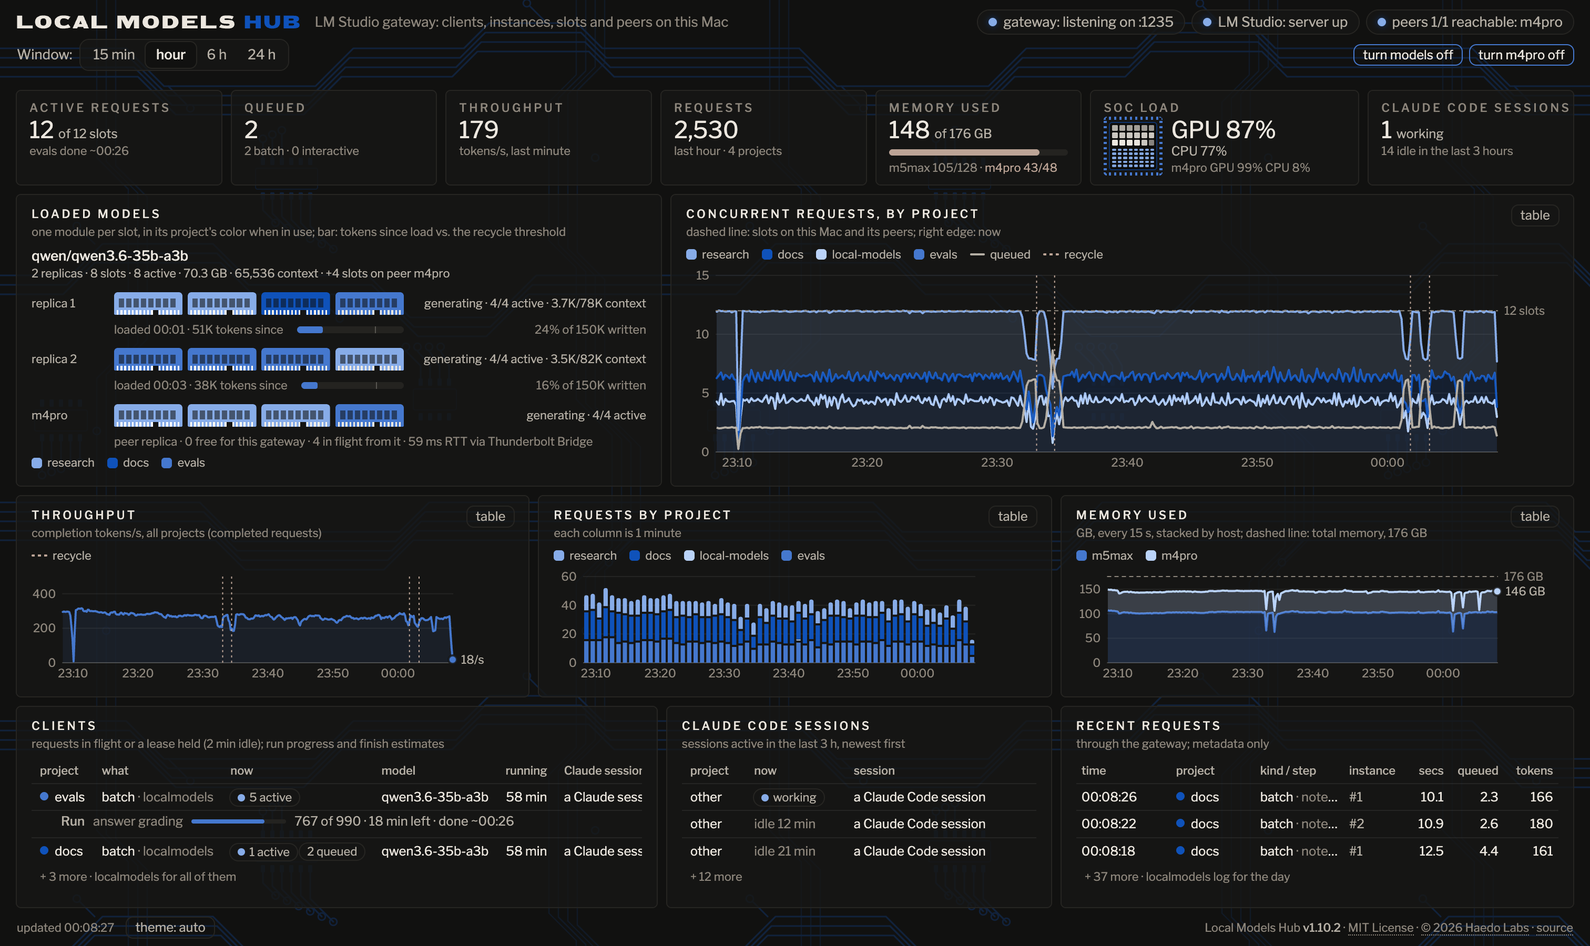
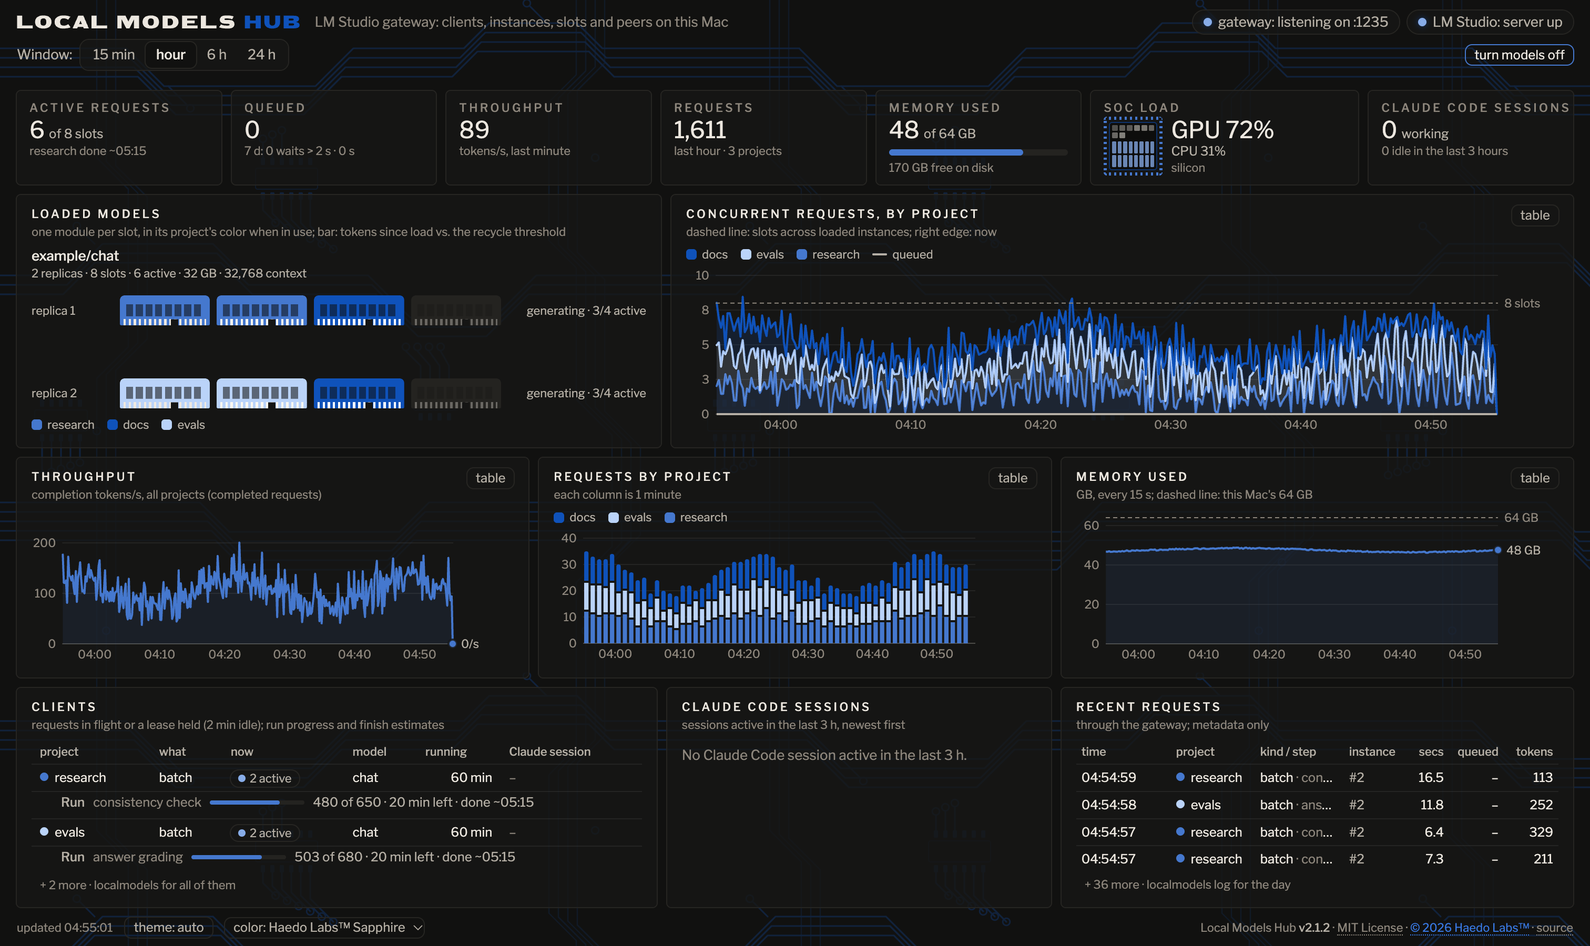
Link and color the maker credit across the dashboard, menu, and documentation

diff --git a/localmodels/dash.html b/localmodels/dash.html
@@ -7,11 +7,11 @@
 <link rel="icon" type="image/png" sizes="64x64" href="/favicon.png"><link rel="apple-touch-icon" href="/apple-touch-icon.png">
 <style>
 :root {
-  /* Haedo Labs' design language: near-black, off-white, the shared grey and
+  /* The Haedo Labs™ design language: near-black, off-white, the shared grey and
      hairline, and sapphire, the one color. Every series is a step of sapphire (OKLab, its own hue, lighter or darker), ordered
      so neighbours differ most; "other" is a neutral. No red: states are told apart by words and position first; color only
      adds weight (warning in the shared beige-grey, critical in the strongest ink). The light theme is the same on paper.
-     Haedo Labs Sapphire is the default color; the footer's color setting can take the Mac's system accent or any color
+     Sapphire is the default color; the footer's color setting can take the Mac's system accent or any color
      instead, and then every step below is drawn again from it (applyAccent): same lightness, its hue and chroma. */
   color-scheme: light;
   --plane: #ece7df; --surface: rgba(244,241,236,0.82); --ink: #111110; --ink-2: #4a4641; --muted: #6b665f;
@@ -21,10 +21,12 @@
   --other: #b5afa5; --good: #0f52ba; --warning: #8a7466; --serious: #7a6a5f; --critical: #111110; --good-text: #0d4eb1;
   --pin: #0f52ba; --die: #161615; --core: 236,231,223; --gpu: 135,172,232; --glow: rgba(15,82,186,0.35); --pcb: .2;
   --brand: #0f52ba; --brand-edge: rgba(15,82,186,0.55);   /* the color itself: the name's HUB, the board, a die's edge */
+  --maker-text: #0f52ba;   /* the maker keeps sapphire when the dashboard accent changes */
 }
 @media (prefers-color-scheme: dark) {
   :root:where(:not([data-theme="light"])) {
     color-scheme: dark;
+    --maker-text: #3879e4;
     --plane: #111110; --surface: rgba(22,22,21,0.8); --ink: #ece7df; --ink-2: #b5afa5; --muted: #8d867c;
     --grid: rgba(236,231,223,0.07); --axis: rgba(236,231,223,0.26); --ring: #262522; --hover: rgba(236,231,223,0.05); --track: #242320;
     --s1: #4578ce; --s2: #bad3f9; --s3: #0f52ba; --s4: #87ace8; --s5: #6692db; --s6: #ccdffe; --s7: #225ec0; --s8: #5e5a54;
@@ -35,6 +37,7 @@
 }
 :root[data-theme="dark"] {
   color-scheme: dark;
+  --maker-text: #3879e4;
   --plane: #111110; --surface: rgba(22,22,21,0.8); --ink: #ece7df; --ink-2: #b5afa5; --muted: #8d867c;
   --grid: rgba(236,231,223,0.07); --axis: rgba(236,231,223,0.26); --ring: #262522; --hover: rgba(236,231,223,0.05); --track: #242320;
   --s1: #4578ce; --s2: #bad3f9; --s3: #0f52ba; --s4: #87ace8; --s5: #6692db; --s6: #ccdffe; --s7: #225ec0; --s8: #5e5a54;
@@ -263,7 +266,8 @@ footer { color: var(--muted); font-size: 11px; display: flex; flex-wrap: wrap; g
 footer b { color: var(--ink-2); font-weight: 500; }
 #about { margin-left: auto; text-align: right; white-space: nowrap; }
 #about a { color: inherit; text-decoration: none; border-bottom: 1px dotted currentColor; }
-#about a:hover { color: var(--ink-2); }
+#about a:not(.maker):hover { color: var(--ink-2); }
+#about .maker { color: var(--maker-text); background: var(--plane); }
 </style>
 </head>
 <body>
@@ -311,7 +315,7 @@ footer b { color: var(--ink-2); font-weight: 500; }
     <article class="card"><h2>Recent requests</h2><div class="hint">through the gateway; metadata only</div><div class="body" id="recent"></div></article>
   </section>
 
-  <footer><span id="foot-left"><span id="clock" class="muted"></span><button class="btn" id="theme" title="Light, dark or the Mac's setting">theme: auto</button><select id="accent" title="The dashboard's color: Haedo Labs Sapphire, the Mac's system accent (System Settings > Appearance), or a color of your own" aria-label="Color"><option value="sapphire">color: Haedo Labs Sapphire</option><option value="system">color: system accent</option><option value="own">color: your own</option></select><input type="color" id="accent-own" value="#0f52ba" title="Your own color" aria-label="Your own color" hidden></span><span id="about"></span></footer>
+  <footer><span id="foot-left"><span id="clock" class="muted"></span><button class="btn" id="theme" title="Light, dark or the Mac's setting">theme: auto</button><select id="accent" title="The dashboard's color: Haedo Labs™ Sapphire, the Mac's system accent (System Settings > Appearance), or a color of your own" aria-label="Color"><option value="sapphire">color: Haedo Labs™ Sapphire</option><option value="system">color: system accent</option><option value="own">color: your own</option></select><input type="color" id="accent-own" value="#0f52ba" title="Your own color" aria-label="Your own color" hidden></span><span id="about"></span></footer>
 </div>
 <div id="tip"></div>
 <script>
@@ -1072,7 +1076,11 @@ function renderAbout() {                // the one footer line: version, license
     const link = (href, text) => el('a', {href, target: '_blank', rel: 'noopener noreferrer'}, text);
     const bits = [el('span', {}, (ab.name || 'Local Models Hub') + ' ', el('b', {}, 'v' + ab.version))];
     if (ab.license) bits.push(ab.source ? link(ab.source.replace(/\/$/, '') + '/blob/main/LICENSE', ab.license) : ab.license);
-    if (ab.copyright) bits.push(ab.copyright_url ? link(ab.copyright_url, ab.copyright) : ab.copyright);
+    if (ab.copyright) {
+      const credit = ab.copyright_url ? link(ab.copyright_url, ab.copyright) : el('span', {}, ab.copyright);
+      credit.className = 'maker';
+      bits.push(credit);
+    }
     if (ab.source) bits.push(link(ab.source, 'source'));
     $('about').replaceChildren(...bits.flatMap((b, i) => i ? [' · ', b] : [b]));
   }
@@ -1311,7 +1319,7 @@ $('theme').addEventListener('click', () => {
   guard('charts', renderCharts);
 });
 try { const t = localStorage.getItem('lm-theme'); if (t) applyTheme(t); } catch (e) {}
-// ---- the color: Haedo Labs Sapphire by default, or the Mac's system accent (/hub/accent), or one's own. Any other color
+// ---- the color: sapphire by default, or the Mac's system accent (/hub/accent), or one's own. Any other color
 // redraws every sapphire step: each keeps its OKLab lightness (the contrast the palette was measured for) and takes the new
 // color's hue, its chroma scaled by the new color's against sapphire's, pulled in until it is a real sRGB color.
 const SAPPHIRE = '#0f52ba';

diff --git a/app/tests/main.swift b/app/tests/main.swift
@@ -226,5 +226,28 @@ t("a hub alert added at the top: one item inserted, every item after it the same
 keeper.sync(real, specs(after.lines) + footer)
 t("...and gone again: the item removed, the rest kept", ids(real) == before)
 
+let creditMenu = NSMenu()
+keeper.sync(creditMenu, [.about(version: "1.2.3")])
+let creditItem = creditMenu.items[0]
+let title = "Local Models Hub 1.2.3 · By Haedo Labs™."
+let maker = (title as NSString).range(of: "By Haedo Labs™.")
+let ink = creditItem.attributedTitle?.attribute(.foregroundColor, at: maker.location, effectiveRange: nil) as? NSColor
+let signInk = creditItem.attributedTitle?.attribute(.foregroundColor, at: NSMaxRange(maker) - 1, effectiveRange: nil) as? NSColor
+t("the menu credit includes the mark and colors only the maker", creditItem.title == title
+  && ink != nil && ink == signInk && creditItem.attributedTitle?.attribute(.foregroundColor, at: 0, effectiveRange: nil) == nil)
+t("the credit opens the maker's site", creditItem.isEnabled && (creditItem.representedObject as? Box)?.action == .openMaker)
+for (appearance, expected) in [(NSAppearance.Name.aqua, [15, 82, 186]), (.darkAqua, [56, 121, 228])] {
+    var rgb: [Int] = []
+    NSAppearance(named: appearance)?.performAsCurrentDrawingAppearance {
+        if let color = ink?.usingColorSpace(.sRGB) {
+            rgb = [color.redComponent, color.greenComponent, color.blueComponent].map { Int(($0 * 255).rounded()) }
+        }
+    }
+    t("the maker uses sapphire in \(appearance.rawValue)", rgb == expected)
+}
+keeper.sync(creditMenu, [Spec(line: Line(title: "Open dashboard", action: .openDashboard, indent: 0))])
+t("a reused item loses the maker's styling", creditMenu.items[0] === creditItem
+  && creditItem.title == "Open dashboard" && creditItem.attributedTitle == nil)
+
 print("\(results.filter { $0 }.count) of \(results.count) ok")
 exit(results.allSatisfy { $0 } ? 0 : 1)

diff --git a/app/Menu.swift b/app/Menu.swift
@@ -8,7 +8,21 @@ struct Spec {
     var line: Line? = nil                                 // nil: a separator
     var key = ""
     var on = false
+    var attributedTitle: NSAttributedString? = nil
     var kind: Kind { line == nil ? .separator : line!.children.isEmpty ? .line : .submenu }
+
+    private static let makerInk = NSColor(name: nil) { appearance in
+        appearance.bestMatch(from: [.darkAqua, .aqua]) == .darkAqua
+            ? NSColor(srgbRed: 56/255, green: 121/255, blue: 228/255, alpha: 1)
+            : NSColor(srgbRed: 15/255, green: 82/255, blue: 186/255, alpha: 1)
+    }
+
+    static func about(version: String) -> Spec {
+        let name = "Local Models Hub" + (version.isEmpty ? "" : " \(version)")
+        let credit = NSMutableAttributedString(string: name + " · ")
+        credit.append(NSAttributedString(string: "By Haedo Labs™.", attributes: [.foregroundColor: makerInk]))
+        return Spec(line: Line(title: credit.string, action: .openMaker, indent: 0), attributedTitle: credit)
+    }
 }
 
 /// A glance's lines as menu items, each separator an item of its own.
@@ -42,7 +56,9 @@ final class MenuKeeper {
     /// One item set to its line, each property only when it differs (setting one redraws the item).
     func set(_ m: NSMenuItem, _ w: Spec) {
         guard let l = w.line else { return }
+        if w.attributedTitle == nil && m.attributedTitle != nil { m.attributedTitle = nil }
         if m.title != l.title { m.title = l.title }
+        if let title = w.attributedTitle, m.attributedTitle != title { m.attributedTitle = title }
         let tip: String? = l.tooltip.isEmpty ? nil : l.tooltip
         if m.toolTip != tip { m.toolTip = tip }
         if (m.representedObject as? Box)?.action != l.action { m.representedObject = Box(l.action) }

diff --git a/app/main.swift b/app/main.swift
@@ -166,7 +166,7 @@ final class Hub: NSObject, NSApplicationDelegate, NSMenuDelegate, UNUserNotifica
             Spec(line: Line(title: "Open dashboard", action: .openDashboard, indent: 0), key: "d"),
             Spec(line: Line(title: "Launch at login", action: .toggleLogin, indent: 0), on: SMAppService.mainApp.status == .enabled),
             Spec(),
-            Spec(line: Line(title: "Local Models Hub" + (g.version.isEmpty ? "" : " \(g.version)") + " · Haedo Labs", indent: 0)),
+            .about(version: g.version),
             Spec(line: Line(title: "Quit", action: .quit, indent: 0), key: "q"),
         ])
     }
@@ -188,6 +188,7 @@ final class Hub: NSObject, NSApplicationDelegate, NSMenuDelegate, UNUserNotifica
         switch action {
         case .none: break
         case .openDashboard: openDashboard()
+        case .openMaker: NSWorkspace.shared.open(URL(string: "https://haedolabs.com/")!)
         case .toggleLogin: toggleLogin()
         case .quit: NSApp.terminate(nil)
         case .startGateway:

diff --git a/app/Glance.swift b/app/Glance.swift
@@ -7,7 +7,7 @@ import Foundation
 enum Icon: Equatable { case serving, idle }            // serving: some slot can take a request; idle: off, down or none loaded
 
 enum Action: Equatable {
-    case none, openDashboard, startGateway, toggleLogin, quit
+    case none, openDashboard, openMaker, startGateway, toggleLogin, quit
     case local(on: Bool)                                // POST /hub/on or /hub/off
     case peer(name: String, on: Bool)                   // POST /hub/link/on or /hub/link/off with {"peer": name}
     case extOpen(ext: String, url: String)              // an extension's page, on its own origin, in the browser

diff --git a/tests/test_code.py b/tests/test_code.py
@@ -304,8 +304,8 @@ def main():
         t('every name it calls or passes as a callback is defined in the page or by the browser', not missing, ', '.join(missing))
         t("a peer that is not up: the peers chip says why, since when and when the next poll comes, and a poll-now button posts /hub/link",
           'id="poll-now"' in page and "fetch('/hub/link', {method: 'POST'})" in page and 'next poll in' in page and 'p.since' in page and 'p.why' in page)
-        t("the color setting: Haedo Labs Sapphire is the default, with the system accent (/hub/accent) and one's own color, kept per browser",
-          '<option value="sapphire">color: Haedo Labs Sapphire</option>' in page and "fetch('/hub/accent')" in page and 'type="color" id="accent-own"' in page
+        t("the color setting: Haedo Labs™ Sapphire is the default, with the system accent (/hub/accent) and one's own color, kept per browser",
+          '<option value="sapphire">color: Haedo Labs™ Sapphire</option>' in page and "fetch('/hub/accent')" in page and 'type="color" id="accent-own"' in page
           and "localStorage.setItem('lm-accent'" in page and 'style="fill: var(--brand)"' in page)
         t('the check catches the kind of slip it is for (a helper removed while still passed as a callback)',
           js_undefined('<script>function a(xs) { return xs.map(short).join(", "); }</script>') == ['short'])

diff --git a/localmodels/web.py b/localmodels/web.py
@@ -36,7 +36,7 @@ _mem = collections.deque(maxlen=24 * 60 * 4)            # (time, GB used here, {
 
 # ---------------------------------------------------------------- the Mac's accent color
 # AppleAccentColor as System Settings > Appearance writes it, with the sRGB value macOS draws for it (controlAccentColor);
-# no key is Multicolor, which draws blue. The page offers it beside Haedo Labs Sapphire, its default, and a color of one's own.
+# no key is Multicolor, which draws blue. The page offers it beside Haedo Labs™ Sapphire, its default, and a color of one's own.
 ACCENTS = {-1: ('Graphite', '#989898'), 0: ('Red', '#e0383e'), 1: ('Orange', '#f7821b'), 2: ('Yellow', '#ffc726'),
            3: ('Green', '#62ba46'), 4: ('Blue', '#007aff'), 5: ('Purple', '#953d96'), 6: ('Pink', '#f74f9e')}
 

diff --git a/localmodels/dash.py b/localmodels/dash.py
@@ -27,7 +27,7 @@ def _fg(rgb, n):
     return '38;2;%d;%d;%d' % rgb if TRUE else f'38;5;{n}'
 
 
-# Haedo Labs' palette, as on the dashboard: sapphire and its steps, the shared beige-grey, off-white, the hairline grey.
+# The Haedo Labs™ palette, as on the dashboard: sapphire and its steps, the shared beige-grey, off-white, the hairline grey.
 # The letters keep their old roles: g good, y warning, r critical (off-white: no red), c the accent, m Claude, b rules.
 C = dict(g=_fg((135, 172, 232), 110), y=_fg((188, 164, 150), 181), r=_fg((236, 231, 223), 255), c=_fg((69, 120, 206), 68),
          m=_fg((169, 198, 244), 153), b=_fg((94, 90, 84), 240), w=_fg((236, 231, 223), 255), B='1', d='2', R='7')

diff --git a/AGENTS.md b/AGENTS.md
@@ -1,5 +1,7 @@
 # local-models hub
 
+Write the maker's display name as **Haedo Labs™** in the app, plugin metadata, and documentation. Link the whole byline. Maker credits stay sapphire on paper (`#0f52ba`) and dark (`#3879e4`) when the dashboard or Mac accent changes.
+
 A gateway on `localhost:1235` in front of LM Studio, shared by every project and every Claude Code session on the Mac: admission control across all clients, per-request attribution by project and session, model replicas kept loaded, crash reloads and pre-emptive recycling, read-only local agents, and one dashboard. The repo is also a Claude Code plugin and its own marketplace. The guide for clients is [GUIDE.md](GUIDE.md); the overview is [README.md](README.md).
 
 ## Layout
@@ -29,7 +31,7 @@ A gateway on `localhost:1235` in front of LM Studio, shared by every project and
 - Standard library only, Python 3.9 or later. No dependencies.
 - Never stop LM Studio's server. Never unload or reload a model another run is using (`localmodels swapcheck`). Never put a prompt, a completion or a file's contents in the hub's records.
 - Precise technical terms in anything a person reads (the dashboard, CLI output, error messages, MCP tool text): its readers are engineers. Name things by what they are (gateway, instance, replica, slot, admission queue, lease, recycle), not by metaphor ("door", "keeper").
-- The look is Haedo Labs': near-black `#111110`, off-white `#ece7df`, the grey `#8d867c`, the hairline `#262522`, and Haedo Labs Sapphire `#0f52ba` as the one color (light theme: the same on off-white paper); it is the default of the dashboard's color setting, which can take the Mac's system accent (`/hub/accent`) or a color of one's own instead (`applyAccent` in dash.html redraws every step from it). Series and project colors are steps of sapphire (its OKLab hue, lighter or darker, neighbours apart); "other" is a neutral. Type is Libre Franklin, 400 and 500 only (served by the gateway, SIL OFL), small labels in tracked capitals; the name is drawn as outlines. Behind it, a faint circuit board in sapphire (`localmodels/pcb.svg`, one seamless tile drawn by `tools/pcb.py`). No red anywhere: states are told apart by words and position first, warning in the beige-grey `#bca496`, critical in the strongest ink; the terminal dash uses the same palette. Motion is slow and subtle and stops under reduced motion. Colors come from the theme tokens, never literals.
+- The Haedo Labs™ palette is near-black `#111110`, off-white `#ece7df`, the grey `#8d867c`, the hairline `#262522`, and sapphire `#0f52ba` as the one color (light theme: the same on off-white paper); sapphire is the default of the dashboard's color setting, which can take the Mac's system accent (`/hub/accent`) or a color of one's own instead (`applyAccent` in dash.html redraws every step from it). Series and project colors are steps of sapphire (its OKLab hue, lighter or darker, neighbours apart); "other" is a neutral. Type is Libre Franklin, 400 and 500 only (served by the gateway, SIL OFL), small labels in tracked capitals; the name is drawn as outlines. Behind it, a faint circuit board in sapphire (`localmodels/pcb.svg`, one seamless tile drawn by `tools/pcb.py`). No red anywhere: states are told apart by words and position first, warning in the beige-grey `#bca496`, critical in the strongest ink; the terminal dash uses the same palette. Motion is slow and subtle and stops under reduced motion. Colors come from the theme tokens, never literals.
 - Commit only this repo's files. Nothing personal, no other project's name, no narration in anything committed; local notes go in a `*.local.md` file beside this one, which git ignores; when it is here, its "Now" section says what is open on this machine.
 - Release only through `localmodels publish`: it runs the sandbox tests, `claude plugin validate`, and the privacy and secrets checks before it pushes. A plain `git push` gets the two checks from the pre-push hook (`localmodels install` writes it) but not the tests or the release steps. Commits and tags are signed (git's own settings on the Mac); the repository runs nothing on GitHub (no Actions, no install scripts), and the secrets check refuses a file that would.
 - When a default, module, command or endpoint changes, update every document that states it (README, GUIDE, AGENTS.md, the CLI help): search them for the old value.

diff --git a/docs/reference.md b/docs/reference.md
@@ -4,7 +4,7 @@ The full reference. The overview is [README.md](../README.md); the rules for cli
 
 ## Dashboard
 
-Close-ups from the same run.
+Close-ups from an earlier hour-long demo with 12 slots.
 
 <img src="models-dark.png" alt="Loaded models card: qwen/qwen3.6-35b-a3b, two replicas with 4 slots each and 4 slots on the peer m4pro, every slot a memory module in its project's color; replica 1 at 24% and replica 2 at 16% of 150K tokens written; the peer at 41 ms round-trip time via Thunderbolt Bridge">
 
@@ -100,7 +100,7 @@ A front switches a peer's local models off and on the same way: `localmodels pee
   - 15-minute to 24-hour series of concurrency, throughput, requests and memory (stacked by host);
   - crashes and recycles marked on the time series (the full record: `localmodels crashes`);
   - a line while the hub has recorded an error in the last 10 minutes (the full record: `localmodels errors`).
-  - one color, Haedo Labs Sapphire (`#0f52ba`) by default; the footer's color setting takes the Mac's system accent (System Settings > Appearance) or a color of one's own instead, and every series step is drawn again from it (same OKLab lightness, its hue and chroma). The choice is kept per browser.
+  - one color, Haedo Labs™ Sapphire (`#0f52ba`) by default; the footer's color setting takes the Mac's system accent (System Settings > Appearance) or a color of one's own instead, and every series step is drawn again from it (same OKLab lightness, its hue and chroma). The choice is kept per browser.
 - **Screenshot mode and a demo workload.** `localmodels present on [for 2h] [show a,b]` shows the named projects (by default the demo's and the hub's own) by name and every other project as "other" on every screen until it ends: no script names, batch names, Claude Code session titles or error details. `localmodels demo [--minutes 60]` runs three generic projects' batches over records it makes up (no file is read), with enough requests at once to fill every slot, this Mac's and its peers', plus two waiting. `localmodels pictures [--out docs] [--dry]` then makes the README's pictures: headless Chrome with a profile of its own draws the dashboard at 1512 × 900 and 1728 × 1117, at 2x, dark and light, and cuts the close-ups along boxes the page measures itself (`?rects`); it runs only in screenshot mode with at least 5 minutes left. The pictures above were made with all three.
 - **JSON endpoints:** `/hub/health`, `/hub/status`, `/hub/snapshot`, `/hub/history`, `/hub/recent`, `/hub/accent` (the Mac's system accent color), `/hub/errors`, `/hub/runs` (the runs going on, every phase estimated; `POST` declares a run's plan), `/hub/peer` (this Mac's report as a peer), `/hub/link` (this Mac's view of its peers; `POST` polls them now) and `/hub/extensions` (the extensions, each menu answering or not, with its summary and alerts); `POST /hub/off` and `POST /hub/on` switch the local models off and on; `POST /hub/link/off` and `POST /hub/link/on` (`{"peer": <name>}`) switch a peer's; `POST /hub/extensions/run` (`{"id", "verb"}`) runs one of the verbs an extension's manifest lists (the dashboard's **start**).
 - **CLI:** `localmodels` (status), `open` (the dashboard in the browser), `dash` (live TUI), `log`, `crashes`, `errors`, `maintenance`, `name`, `present`, `demo`, `peer`, `swapcheck`, `use`, `keep`, `recycle`, `ask`, `batch`, `jobs`, `prune`, `check` (self-test), `start`, `stop` and `restart` (the gateway), `install`, `uninstall` and `publish`.
@@ -322,4 +322,4 @@ Send every request through the gateway, never to port 1234. Hold a lease for a r
 
 ## License
 
-MIT, © 2026 [Haedo Labs](https://haedolabs.com); see [LICENSE](../LICENSE). The dashboard's typeface, Libre Franklin, is under the SIL Open Font License 1.1 ([localmodels/libre-franklin-OFL.txt](../localmodels/libre-franklin-OFL.txt)).
+MIT, © 2026 [Haedo Labs™](https://haedolabs.com); see [LICENSE](../LICENSE). The dashboard's typeface, Libre Franklin, is under the SIL Open Font License 1.1 ([localmodels/libre-franklin-OFL.txt](../localmodels/libre-franklin-OFL.txt)).

diff --git a/README.md b/README.md
@@ -1,16 +1,16 @@
 # <img src="docs/icon.png" alt="" width="32" height="32"> Local Models Hub
 
-By [Haedo Labs](https://haedolabs.com)™.
+[By Haedo Labs™.](https://haedolabs.com)
 
 A gateway in front of LM Studio, for a Mac where several programs and Claude Code sessions share the same local models.
 
 <picture>
   <source media="(prefers-color-scheme: dark)" srcset="docs/dashboard-dark.png">
   <source media="(prefers-color-scheme: light)" srcset="docs/dashboard-light.png">
-  <img alt="The dashboard during a synthetic workload: every slot in use, two requests queued, the requests by project over an hour, and each client's run with its finish time" src="docs/dashboard-light.png">
+  <img alt="Three example projects use six of eight model slots. Charts show concurrency, throughput, requests, and memory over an hour." src="docs/dashboard-light.png">
 </picture>
 
-The dashboard during `localmodels demo`, a synthetic workload.
+The dashboard with simulated requests from three projects.
 
 ## Why
 
@@ -79,4 +79,4 @@ Configuration, endpoints, architecture, the trust model, and known limitations: 
 
 ## License
 
-MIT, © 2026 [Haedo Labs](https://haedolabs.com); see [LICENSE](LICENSE). The dashboard's typeface, Libre Franklin, is under the SIL Open Font License 1.1.
+MIT, © 2026 [Haedo Labs™](https://haedolabs.com); see [LICENSE](LICENSE). The dashboard's typeface, Libre Franklin, is under the SIL Open Font License 1.1.
